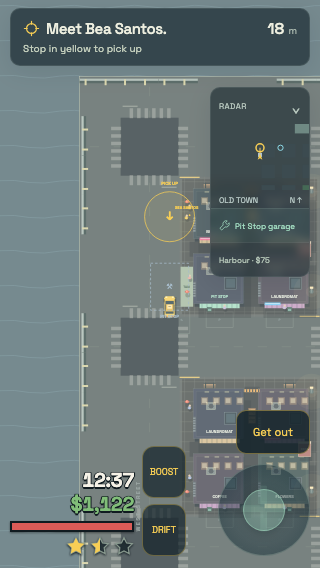
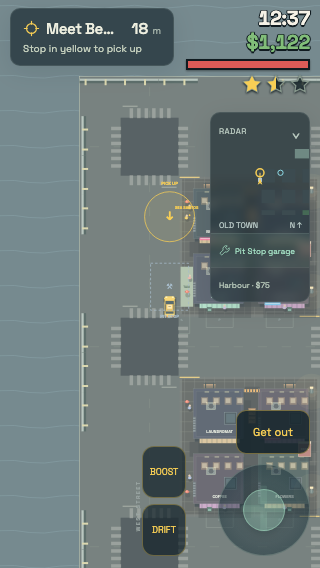
Move player status HUD to the top right across desktop and touch

diff --git a/src/style.css b/src/style.css
@@ -21,7 +21,7 @@
 .mission-footer{margin:0 -16px;padding:9px 12px}
 .job-progress{margin:0 -16px}
 /* Minimal status: outlined type, personal health and progressively filled stars. */
-.player-hud{position:fixed;z-index:1;left:28px;bottom:84px;width:190px;display:grid;justify-items:end;gap:4px;pointer-events:none;touch-action:none;font-weight:700;font-variant-numeric:tabular-nums;line-height:1.05;letter-spacing:-.7px}
+.player-hud{position:fixed;z-index:1;top:max(28px,env(safe-area-inset-top,0px));right:max(28px,env(safe-area-inset-right,0px));width:190px;display:grid;justify-items:end;gap:4px;pointer-events:none;touch-action:none;font-weight:700;font-variant-numeric:tabular-nums;line-height:1.05;letter-spacing:-.7px}
 .player-hud time,.player-hud strong{font-size:min(28px,calc(280px / var(--cash-length,8)));font-weight:inherit;white-space:nowrap;-webkit-text-stroke:2px #101b20;paint-order:stroke fill;text-shadow:0 2px 0 #101b20,1px 0 0 #101b20,-1px 0 0 #101b20}
 .player-hud time{color:#f6f2e7}
 .player-hud strong{color:#81bd79}
@@ -31,6 +31,7 @@
 .player-heat .heat-star{width:25px;height:25px;filter:drop-shadow(0 1px 1px #101b20)}
 .heat-star-empty{fill:#14232a88;stroke:#87988d;stroke-width:1.5}
 .heat-star-fill{fill:var(--gold)}
+.roadside{right:calc(max(28px,env(safe-area-inset-right,0px)) + 206px)}
 .map-panel{width:178px;background:#14232ac2}
 .map-toggle{display:flex;align-items:center;gap:7px;width:100%;min-height:38px;padding:0 10px;border:0;background:transparent;color:#b7c7bd;font-size:8px;letter-spacing:1px}
 .map-toggle #map-status{margin-left:auto;color:var(--mint);font-size:7px}
@@ -48,7 +49,7 @@
 
 @media(max-width:700px), (max-width:1000px) and (max-height:500px), (pointer:coarse) and (max-width:1200px){
   :root{--edge-left:max(10px,env(safe-area-inset-left,0px));--edge-right:max(10px,env(safe-area-inset-right,0px));--edge-bottom:max(12px,env(safe-area-inset-bottom,0px));--top-height:env(safe-area-inset-top,0px);--stick-size:110px;--dash-width:124px}
-  .mission{top:calc(var(--top-height) + 8px);left:var(--edge-left);right:var(--edge-right);width:auto;padding:9px 12px;display:grid;grid-template-columns:minmax(0,1fr) auto;column-gap:10px;border-radius:10px;background:#14232aa8}
+  .mission{top:calc(var(--top-height) + 8px);left:var(--edge-left);right:calc(var(--edge-right) + var(--dash-width) + 12px);width:auto;padding:9px 12px;display:grid;grid-template-columns:minmax(0,1fr) auto;column-gap:10px;border-radius:10px;background:#14232aa8}
   .mission .eyebrow,.mission #mission-description,.mission-footer,.mission-data>div:first-child,.mission-data small{display:none}
   .mission-heading{grid-row:1;grid-column:1;margin:0;gap:6px;min-width:0;align-items:center}
   .mission h1{font-size:17px;letter-spacing:-.4px;line-height:1.2;overflow:hidden;text-overflow:ellipsis;white-space:nowrap}
@@ -61,12 +62,12 @@
   .mission.on-foot .mobile-hint{display:none}
   .job-progress{grid-column:1/-1;margin:4px -12px -9px}
   .mission.on-foot .job-progress{display:none}
-  .player-hud{bottom:var(--edge-bottom);left:var(--edge-left);width:var(--dash-width);gap:3px}
+  .player-hud{top:calc(var(--top-height) + 8px);right:var(--edge-right);width:var(--dash-width);gap:3px}
   .player-hud time,.player-hud strong{font-size:min(20px,calc(180px / var(--cash-length,8)))}
   .player-health{height:11px;margin-top:3px;border-width:2px}
   .player-heat{gap:4px;margin-top:1px}
   .player-heat .heat-star{width:20px;height:20px}
-  .map-panel{top:calc(var(--top-height) + 87px);right:var(--edge-right);bottom:auto;left:auto;width:100px;border-radius:10px;background:#14232a99;backdrop-filter:blur(5px)}
+  .map-panel{top:calc(var(--top-height) + 112px);right:var(--edge-right);bottom:auto;left:auto;width:100px;border-radius:10px;background:#14232a99;backdrop-filter:blur(5px)}
   .map-toggle{min-height:36px;font-size:8px;padding:0 8px;letter-spacing:.5px;gap:4px}
   .map-toggle #map-status{display:none}
   .map-chevron{margin-left:auto}
@@ -89,7 +90,7 @@
   .context-action:not([hidden]){display:block}
   .roadside{top:calc(var(--top-height) + 165px);left:var(--edge-left);right:auto;width:calc(100% - var(--edge-left) - var(--edge-right) - 114px);max-width:250px}
   .roadside p{display:none}
-  .toast{top:calc(var(--top-height) + 88px);bottom:auto;left:var(--edge-left);transform:translateY(5px);width:calc(100% - var(--edge-left) - var(--edge-right) - 114px);max-width:300px;padding:8px 10px;font-size:9px;line-height:1.4}
+  .toast{top:calc(var(--top-height) + 88px);bottom:auto;left:var(--edge-left);transform:translateY(5px);width:calc(100% - var(--edge-left) - var(--edge-right) - var(--dash-width) - 12px);max-width:300px;padding:8px 10px;font-size:9px;line-height:1.4}
   .toast.visible{transform:translateY(0)}
   .debug-panel{bottom:var(--edge-bottom)}
 }
@@ -102,11 +103,11 @@
 @media(max-height:500px) and (max-width:1000px), (max-height:500px) and (pointer:coarse) and (max-width:1200px){
   :root{--stick-size:100px}
   .mission{right:auto;width:min(46vw,380px)}
-  .map-panel{top:calc(var(--top-height) + 8px);width:90px}
+  .map-panel{top:auto;bottom:var(--edge-bottom);left:var(--edge-left);right:auto;width:90px}
   #map{height:56px}
   .map-toggle{min-height:30px}.garage-button{min-height:30px}
-  .roadside{top:calc(var(--top-height) + 80px);left:270px;width:200px}
-  .toast{top:calc(var(--top-height) + 8px);left:calc(46vw + 20px);width:calc(54vw - 136px)}
+  .roadside{top:calc(var(--top-height) + 112px);left:auto;right:calc(var(--edge-right) + var(--dash-width) + 12px);width:calc(54vw - var(--edge-left) - var(--edge-right) - var(--dash-width) - 22px);max-height:calc(100dvh - var(--top-height) - 124px - var(--stick-size) - var(--edge-bottom));overflow:auto}
+  .toast{top:calc(var(--top-height) + 88px);left:var(--edge-left);width:min(240px,calc(46vw - 20px))}
 }
 
 /* Game-over text stays legible while the blast and street remain visible. */
@@ -123,7 +124,7 @@
 @media(pointer:coarse){.continue-keyboard{display:none}.continue-touch{display:inline}}
 
 /* Pickup conversations: portrait, name and a quiet typewriter cursor. */
-.story{position:fixed;z-index:2;top:28px;right:28px;width:420px;padding:8px 16px 0;background:#14232af2;border-color:#9aafa34d;touch-action:manipulation}
+.story{position:fixed;z-index:2;top:28px;right:calc(max(28px,env(safe-area-inset-right,0px)) + 206px);width:420px;padding:8px 16px 0;background:#14232af2;border-color:#9aafa34d;touch-action:manipulation}
 .story[hidden]{display:none}
 .story-header{display:flex;align-items:center;justify-content:space-between;gap:8px;color:#a8bdb2;font-size:9px;letter-spacing:1.5px}
 .story-header button{width:44px;height:32px;padding:0;border:0;background:none;color:#a8bdb2;font-size:22px;line-height:1}
@@ -142,8 +143,17 @@
 .story.collapsed .story-read{border-top:0;border-radius:12px}
 .story .story-sr{position:absolute;width:1px;height:1px;min-height:0;padding:0;margin:-1px;overflow:hidden;clip-path:inset(50%);white-space:nowrap;border:0}
 @media(max-height:720px) and (min-width:1001px){.story{top:28px}}
+/* Narrow desktop: stack the conversation below status, with radar on the free left edge. */
+@media(min-width:701px) and (max-width:1100px) and (min-height:501px) and (pointer:fine){
+  .story{top:224px;right:28px;width:min(420px,calc(100vw - 384px));max-height:calc(100dvh - 274px);overflow:auto}
+  .roadside{top:224px;right:28px;width:min(300px,calc(100vw - 384px));max-height:calc(100dvh - 274px);overflow:auto}
+  .toast{top:160px;right:28px;left:auto;bottom:auto;width:min(420px,calc(100vw - 384px));max-width:none;transform:translateY(5px)}
+  .toast.visible{transform:none}
+  .map-panel{left:18px;right:auto}
+  #map{height:min(144px,calc(100dvh - 430px))}
+}
 @media(max-width:700px), (max-width:1000px) and (max-height:500px), (pointer:coarse) and (max-width:1200px){
-  .story{top:calc(var(--top-height) + 88px);left:var(--edge-left);right:auto;width:calc(100% - var(--edge-left) - var(--edge-right) - 114px);max-width:360px;padding:6px 10px 0;border-radius:10px}
+  .story{top:calc(var(--top-height) + 144px);left:var(--edge-left);right:auto;width:calc(100% - var(--edge-left) - var(--edge-right) - 114px);max-width:360px;max-height:calc(100dvh - var(--top-height) - 156px - max(var(--stick-size),110px) - var(--edge-bottom));overflow:auto;padding:6px 10px 0;border-radius:10px}
   .story-header{font-size:8px;letter-spacing:.5px}
   .story-header button{height:44px;width:44px}
   .story-body{grid-template-columns:52px minmax(0,1fr);gap:10px;padding:0 0 10px;align-items:start}
@@ -152,14 +162,15 @@
   .story-copy p{font-size:12px;line-height:1.5;min-height:126px}
   .story-read{width:calc(100% + 20px);margin:0 -10px;padding:8px 10px;border-radius:0 0 10px 10px}
   .story.collapsed{width:calc(100% - var(--edge-left) - var(--edge-right) - 114px);padding:0 10px}
-  #app:has(.story:not([hidden])) .toast{top:calc(var(--top-height) + 340px)}
-  #app:has(.story.collapsed:not([hidden])) .toast{top:calc(var(--top-height) + 140px)}
 }
 @media(max-height:500px) and (max-width:1000px), (max-height:500px) and (pointer:coarse) and (max-width:1200px){
-  .story{top:calc(var(--top-height) + 8px);left:auto;right:calc(var(--edge-right) + 102px);width:calc(54vw - 132px);max-width:360px}
+  .story{top:calc(var(--top-height) + 8px);left:auto;right:calc(var(--edge-right) + var(--dash-width) + 12px);width:calc(54vw - var(--edge-left) - var(--edge-right) - var(--dash-width) - 22px);max-width:360px;max-height:calc(100dvh - var(--top-height) - var(--stick-size) - var(--edge-bottom) - 20px)}
   .story-copy p{font-size:11px;min-height:100px}
-  .story.collapsed{width:calc(54vw - 132px)}
-  #app:has(.story:not([hidden])) .toast{top:calc(var(--top-height) + 80px);left:var(--edge-left);width:240px}
+  .story.collapsed{width:calc(54vw - var(--edge-left) - var(--edge-right) - var(--dash-width) - 22px)}
+}
+@media(max-height:500px) and (max-width:650px){
+  .story-body{display:flow-root}
+  .story-speaker{float:left;width:44px;margin:0 9px 8px 0}
 }
 @media(max-width:360px){
   .story-body{display:flow-root}
